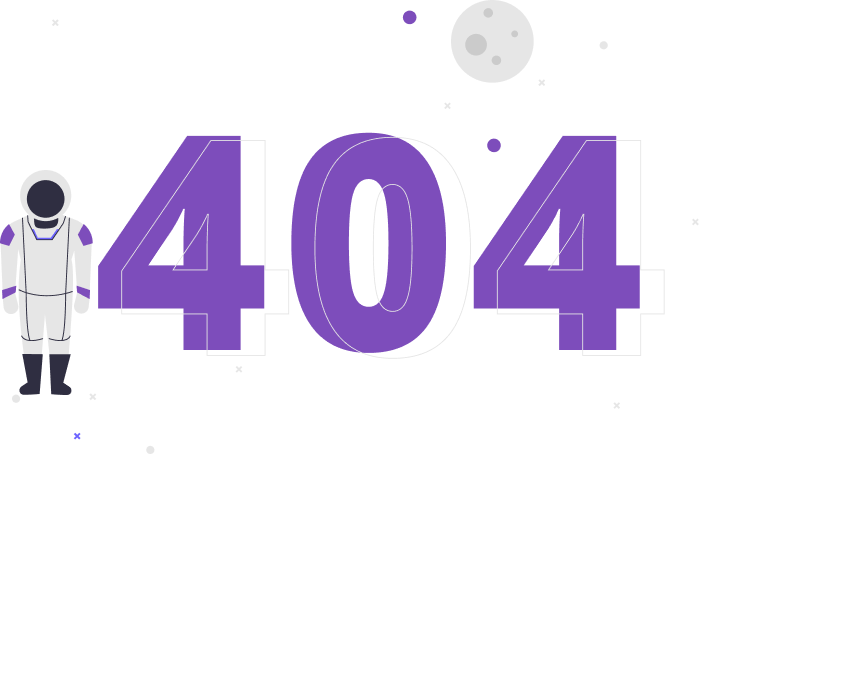
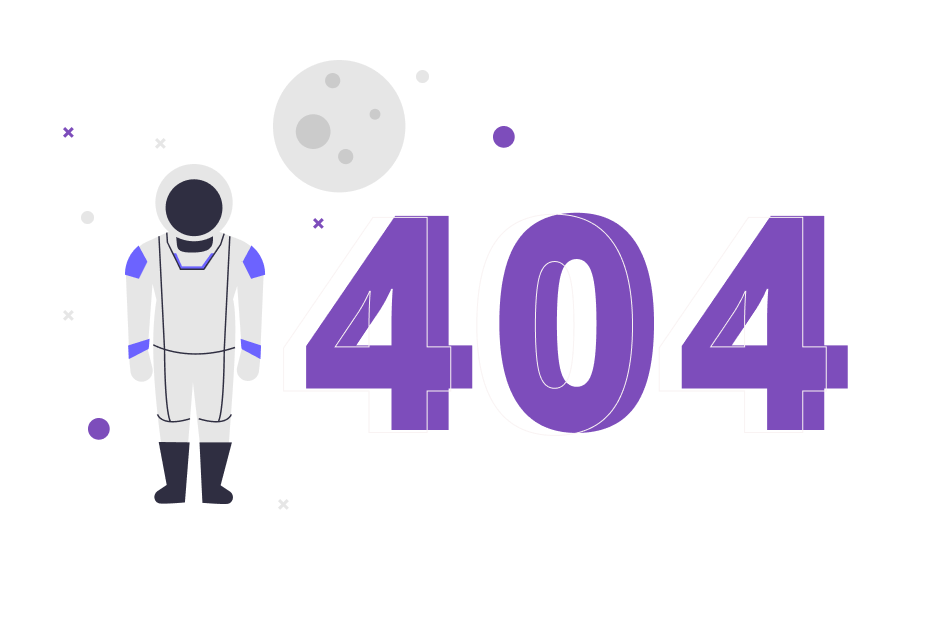
create error pages bad request, unauthorized, forbidden, not found, timeout, gone, server error, unavailable and gateway timeout

diff --git a/src/pages/status/gateway/Gateway.js b/src/pages/status/gateway/Gateway.js
@@ -4,19 +4,19 @@ import Content from '../../../components/atoms/containers/content/Content';
 import Main from '../../../components/atoms/containers/main/Main';
 import Header from '../../../components/organisms/header/Header';
 import Figure from '../../../components/molecules/figure/Figure';
-import serverError from '../../../assets/images/500.png';
+import gateway from '../../../assets/images/504.png';
 import Paragraph from '../../../components/atoms/texts/Paragraph';
 import { Link } from 'react-router-dom';
 
-const ServerError = () => {
+const Gateway = () => {
   return(
     <Container width='100vw' height='100vh' direction='column'>
       <Header />
       <Content margin="120px 0 0 0" justify='center' align='center'>
         <Main>
-          <Paragraph weight="800" size="32px" spacing="0.03em">Sorry, it’s me, not you..</Paragraph>
-          <Figure width='800px' src={serverError} alt='serverError' />
-          <Paragraph weight="500" size="24px" spacing="0.03em">Try reloading the page. We’re working hard to fix the page for you as soon as possible.</Paragraph>
+          <Paragraph weight="800" size="32px" spacing="0.03em">This page is taking way too long to load.</Paragraph>
+          <Figure width='900px' src={gateway} alt='gateway' />
+          <Paragraph weight="500" size="24px" spacing="0.03em">orry about that. Please try refreshing and contact us if the problem persists.</Paragraph>
           <Paragraph weight="500" size="24px" spacing="0.03em">If you want to start over, <Link to="/"><span>go to the homepage.</span></Link></Paragraph>
         </Main>
       </Content>
@@ -24,4 +24,4 @@ const ServerError = () => {
   );
 }
 
-export default ServerError 
+export default Gateway 

diff --git a/src/pages/status/unavailable/Unavailable.js b/src/pages/status/unavailable/Unavailable.js
@@ -4,19 +4,19 @@ import Content from '../../../components/atoms/containers/content/Content';
 import Main from '../../../components/atoms/containers/main/Main';
 import Header from '../../../components/organisms/header/Header';
 import Figure from '../../../components/molecules/figure/Figure';
-import serverError from '../../../assets/images/500.png';
+import unavailable from '../../../assets/images/503.png';
 import Paragraph from '../../../components/atoms/texts/Paragraph';
 import { Link } from 'react-router-dom';
 
-const ServerError = () => {
+const Unavailable = () => {
   return(
     <Container width='100vw' height='100vh' direction='column'>
       <Header />
       <Content margin="120px 0 0 0" justify='center' align='center'>
         <Main>
-          <Paragraph weight="800" size="32px" spacing="0.03em">Sorry, it’s me, not you..</Paragraph>
-          <Figure width='800px' src={serverError} alt='serverError' />
-          <Paragraph weight="500" size="24px" spacing="0.03em">Try reloading the page. We’re working hard to fix the page for you as soon as possible.</Paragraph>
+          <Paragraph weight="800" size="32px" spacing="0.03em">Sorry, the service is unavailable.</Paragraph>
+          <Figure width='900px' src={unavailable} alt='unavailable' />
+          <Paragraph weight="500" size="24px" spacing="0.03em">The server is currently unable to handle your request.</Paragraph>
           <Paragraph weight="500" size="24px" spacing="0.03em">If you want to start over, <Link to="/"><span>go to the homepage.</span></Link></Paragraph>
         </Main>
       </Content>
@@ -24,4 +24,4 @@ const ServerError = () => {
   );
 }
 
-export default ServerError 
+export default Unavailable 

diff --git a/src/pages/status/unauthorized/Unauthorized.js b/src/pages/status/unauthorized/Unauthorized.js
@@ -4,19 +4,19 @@ import Content from '../../../components/atoms/containers/content/Content';
 import Main from '../../../components/atoms/containers/main/Main';
 import Header from '../../../components/organisms/header/Header';
 import Figure from '../../../components/molecules/figure/Figure';
-import serverError from '../../../assets/images/500.png';
+import unauthorized from '../../../assets/images/401.png';
 import Paragraph from '../../../components/atoms/texts/Paragraph';
 import { Link } from 'react-router-dom';
 
-const ServerError = () => {
+const Unauthorized = () => {
   return(
     <Container width='100vw' height='100vh' direction='column'>
       <Header />
       <Content margin="120px 0 0 0" justify='center' align='center'>
         <Main>
-          <Paragraph weight="800" size="32px" spacing="0.03em">Sorry, it’s me, not you..</Paragraph>
-          <Figure width='800px' src={serverError} alt='serverError' />
-          <Paragraph weight="500" size="24px" spacing="0.03em">Try reloading the page. We’re working hard to fix the page for you as soon as possible.</Paragraph>
+          <Paragraph weight="800" size="32px" spacing="0.03em">I’m gonna stop you right there!</Paragraph>
+          <Figure width='900px' src={unauthorized} alt='unauthorized' />
+          <Paragraph weight="500" size="24px" spacing="0.03em">Unauthorized: Acess to this resource is denied.</Paragraph>
           <Paragraph weight="500" size="24px" spacing="0.03em">If you want to start over, <Link to="/"><span>go to the homepage.</span></Link></Paragraph>
         </Main>
       </Content>
@@ -24,4 +24,4 @@ const ServerError = () => {
   );
 }
 
-export default ServerError 
+export default Unauthorized 

diff --git a/src/pages/status/timeOut/TimeOut.js b/src/pages/status/timeOut/TimeOut.js
@@ -4,19 +4,19 @@ import Content from '../../../components/atoms/containers/content/Content';
 import Main from '../../../components/atoms/containers/main/Main';
 import Header from '../../../components/organisms/header/Header';
 import Figure from '../../../components/molecules/figure/Figure';
-import serverError from '../../../assets/images/500.png';
+import timeout from '../../../assets/images/408.png';
 import Paragraph from '../../../components/atoms/texts/Paragraph';
 import { Link } from 'react-router-dom';
 
-const ServerError = () => {
+const TimeOut = () => {
   return(
     <Container width='100vw' height='100vh' direction='column'>
       <Header />
       <Content margin="120px 0 0 0" justify='center' align='center'>
         <Main>
-          <Paragraph weight="800" size="32px" spacing="0.03em">Sorry, it’s me, not you..</Paragraph>
-          <Figure width='800px' src={serverError} alt='serverError' />
-          <Paragraph weight="500" size="24px" spacing="0.03em">Try reloading the page. We’re working hard to fix the page for you as soon as possible.</Paragraph>
+          <Paragraph weight="800" size="32px" spacing="0.03em">This request takes too long to process.</Paragraph>
+          <Figure width='800px' src={timeout} alt='timeout' />
+          <Paragraph weight="500" size="24px" spacing="0.03em">Your browser didn’t send a complete request in time.</Paragraph>
           <Paragraph weight="500" size="24px" spacing="0.03em">If you want to start over, <Link to="/"><span>go to the homepage.</span></Link></Paragraph>
         </Main>
       </Content>
@@ -24,4 +24,4 @@ const ServerError = () => {
   );
 }
 
-export default ServerError 
+export default TimeOut 

diff --git a/src/pages/status/badRequest/BadRequest.js b/src/pages/status/badRequest/BadRequest.js
@@ -4,19 +4,19 @@ import Content from '../../../components/atoms/containers/content/Content';
 import Main from '../../../components/atoms/containers/main/Main';
 import Header from '../../../components/organisms/header/Header';
 import Figure from '../../../components/molecules/figure/Figure';
-import serverError from '../../../assets/images/500.png';
+import badRequest from '../../../assets/images/400.png';
 import Paragraph from '../../../components/atoms/texts/Paragraph';
 import { Link } from 'react-router-dom';
 
-const ServerError = () => {
+const BadRequest = () => {
   return(
     <Container width='100vw' height='100vh' direction='column'>
       <Header />
       <Content margin="120px 0 0 0" justify='center' align='center'>
         <Main>
-          <Paragraph weight="800" size="32px" spacing="0.03em">Sorry, it’s me, not you..</Paragraph>
-          <Figure width='800px' src={serverError} alt='serverError' />
-          <Paragraph weight="500" size="24px" spacing="0.03em">Try reloading the page. We’re working hard to fix the page for you as soon as possible.</Paragraph>
+          <Paragraph weight="800" size="32px" spacing="0.03em">Caught in a bad request</Paragraph>
+          <Figure width='800px' src={badRequest} alt='badRequest' />
+          <Paragraph weight="500" size="24px" spacing="0.03em">Your client has issued a malformed or illegal request.</Paragraph>
           <Paragraph weight="500" size="24px" spacing="0.03em">If you want to start over, <Link to="/"><span>go to the homepage.</span></Link></Paragraph>
         </Main>
       </Content>
@@ -24,4 +24,4 @@ const ServerError = () => {
   );
 }
 
-export default ServerError 
+export default BadRequest 

diff --git a/src/pages/status/forbidden/Forbidden.js b/src/pages/status/forbidden/Forbidden.js
@@ -4,19 +4,19 @@ import Content from '../../../components/atoms/containers/content/Content';
 import Main from '../../../components/atoms/containers/main/Main';
 import Header from '../../../components/organisms/header/Header';
 import Figure from '../../../components/molecules/figure/Figure';
-import serverError from '../../../assets/images/500.png';
+import forbidden from '../../../assets/images/403.png';
 import Paragraph from '../../../components/atoms/texts/Paragraph';
 import { Link } from 'react-router-dom';
 
-const ServerError = () => {
+const Forbidden = () => {
   return(
     <Container width='100vw' height='100vh' direction='column'>
       <Header />
       <Content margin="120px 0 0 0" justify='center' align='center'>
         <Main>
-          <Paragraph weight="800" size="32px" spacing="0.03em">Sorry, it’s me, not you..</Paragraph>
-          <Figure width='800px' src={serverError} alt='serverError' />
-          <Paragraph weight="500" size="24px" spacing="0.03em">Try reloading the page. We’re working hard to fix the page for you as soon as possible.</Paragraph>
+          <Paragraph weight="800" size="32px" spacing="0.03em">You shall not pass!</Paragraph>
+          <Figure width='700px' src={forbidden} alt='forbidden' />
+          <Paragraph weight="500" size="24px" spacing="0.03em">You do not have access to this page or resource.</Paragraph>
           <Paragraph weight="500" size="24px" spacing="0.03em">If you want to start over, <Link to="/"><span>go to the homepage.</span></Link></Paragraph>
         </Main>
       </Content>
@@ -24,4 +24,4 @@ const ServerError = () => {
   );
 }
 
-export default ServerError 
+export default Forbidden 

diff --git a/src/pages/status/gone/Gone.js b/src/pages/status/gone/Gone.js
@@ -4,19 +4,19 @@ import Content from '../../../components/atoms/containers/content/Content';
 import Main from '../../../components/atoms/containers/main/Main';
 import Header from '../../../components/organisms/header/Header';
 import Figure from '../../../components/molecules/figure/Figure';
-import serverError from '../../../assets/images/500.png';
+import gone from '../../../assets/images/410.png';
 import Paragraph from '../../../components/atoms/texts/Paragraph';
 import { Link } from 'react-router-dom';
 
-const ServerError = () => {
+const Gone = () => {
   return(
     <Container width='100vw' height='100vh' direction='column'>
       <Header />
       <Content margin="120px 0 0 0" justify='center' align='center'>
         <Main>
-          <Paragraph weight="800" size="32px" spacing="0.03em">Sorry, it’s me, not you..</Paragraph>
-          <Figure width='800px' src={serverError} alt='serverError' />
-          <Paragraph weight="500" size="24px" spacing="0.03em">Try reloading the page. We’re working hard to fix the page for you as soon as possible.</Paragraph>
+          <Paragraph weight="800" size="32px" spacing="0.03em"> I'm not here anymore..</Paragraph>
+          <Figure width='900px' src={gone} alt='gone' />
+          <Paragraph weight="500" size="24px" spacing="0.03em">The requested page is permanently deleted.</Paragraph>
           <Paragraph weight="500" size="24px" spacing="0.03em">If you want to start over, <Link to="/"><span>go to the homepage.</span></Link></Paragraph>
         </Main>
       </Content>
@@ -24,4 +24,4 @@ const ServerError = () => {
   );
 }
 
-export default ServerError 
+export default Gone 

diff --git a/src/pages/status/notFound/NotFound.js b/src/pages/status/notFound/NotFound.js
@@ -4,19 +4,23 @@ import Content from '../../../components/atoms/containers/content/Content';
 import Main from '../../../components/atoms/containers/main/Main';
 import Header from '../../../components/organisms/header/Header';
 import Figure from '../../../components/molecules/figure/Figure';
-import Information from '../../../components/molecules/information/Information';
 import notFound from '../../../assets/images/404.png';
+import Paragraph from '../../../components/atoms/texts/Paragraph';
+import { Link } from 'react-router-dom';
+
 
 const NotFound = () => {
   return(
     <Container width='100vw' height='100vh' direction='column'>
       <Header />
-      <Content margin="140px 0 0 0" justify='center' align='center'>
+      <Content margin="120px 0 0 0" justify='center' align='center'>
         <Main>
-          <Information title='Ooops! Page not found.' subtitle='Look like you’re lost in space.' text='If you want to start over, go to the homepage.' />
+          <Paragraph weight="800" size="32px" spacing="0.03em">Ooops! Page not found.</Paragraph>
+          <Figure width='800px' src={notFound} alt='notFound' />
+          <Paragraph weight="500" size="24px" spacing="0.03em">Look like you’re lost in space.</Paragraph>
+          <Paragraph weight="500" size="24px" spacing="0.03em">If you want to start over, <Link to="/"><span>go to the homepage.</span></Link></Paragraph>
         </Main>
-        <Figure width='' src={notFound} alt='notFound' />
-        </Content>
+      </Content>
     </Container>
   );
 }

diff --git a/src/routes.js b/src/routes.js
@@ -8,6 +8,13 @@ import Following from './pages/following/Following';
 import Followers from './pages/followers/Followers';
 import NotFound from './pages/status/notFound/NotFound';
 import ServerError from './pages/status/serverError/ServerError';
+import Forbidden from './pages/status/forbidden/Forbidden';
+import TimeOut from  './pages/status/timeOut/TimeOut';
+import Gone from './pages/status/gone/Gone';
+import BadRequest from './pages/status/badRequest/BadRequest';
+import Unauthorized from './pages/status/unauthorized/Unauthorized';
+import Unavailable from './pages/status/unavailable/Unavailable';
+import Gateway from './pages/status/gateway/Gateway';
 
 const Routes = () => {
   return(
@@ -18,8 +25,15 @@ const Routes = () => {
       <Route path="/profile/stars" component={Stars} />
       <Route path="/profile/following" component={Following} />
       <Route path="/profile/followers" component={Followers} />
+      <Route path="/400" component={BadRequest} />
+      <Route path="/401" component={Unauthorized} />
+      <Route path="/403" component={Forbidden} />
       <Route path="/404" component={NotFound} />
+      <Route path="/408" component={TimeOut} />
+      <Route path="/410" component={Gone} />
       <Route path="/500" component={ServerError} />
+      <Route path="/503" component={Unavailable} />
+      <Route path="/504" component={Gateway} />
     </Switch>
   );
 }

diff --git a/src/assets/styles/Global.js b/src/assets/styles/Global.js
@@ -48,12 +48,21 @@ export const Global = createGlobalStyle`
     margin-left: -3px;
   }
 
+  #homeIcon {
+    padding-top: 5px;
+  }
+
   .largeIcon {
     margin: auto auto 15px auto;
   }
 
   #list {
     margin-top: 15px;
+  }
+
+  span {
+    color: #7D4DBB;
+    font-weight: 800;
   }
 
 `;
